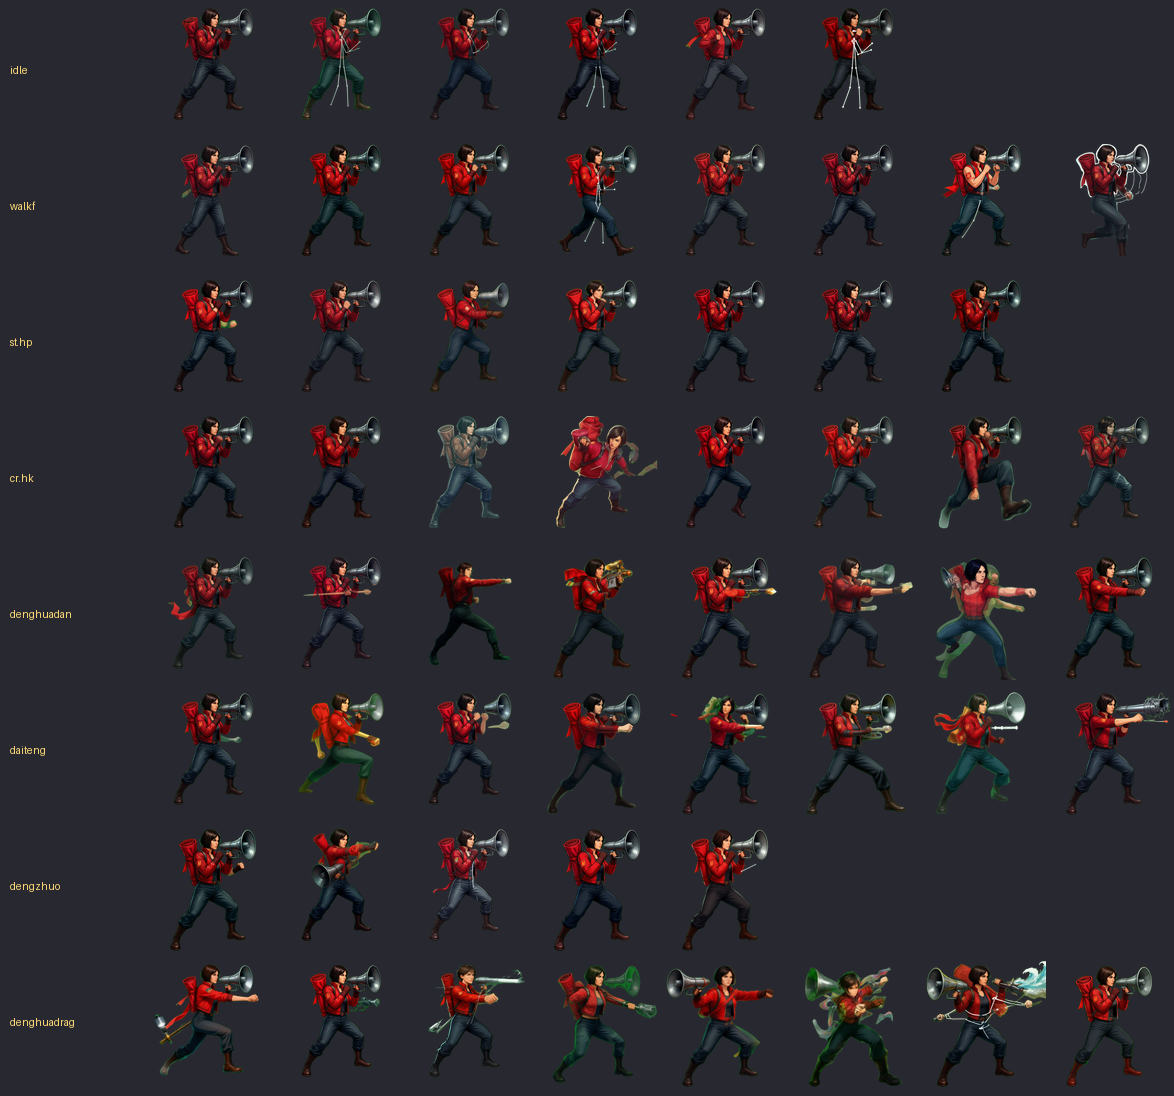
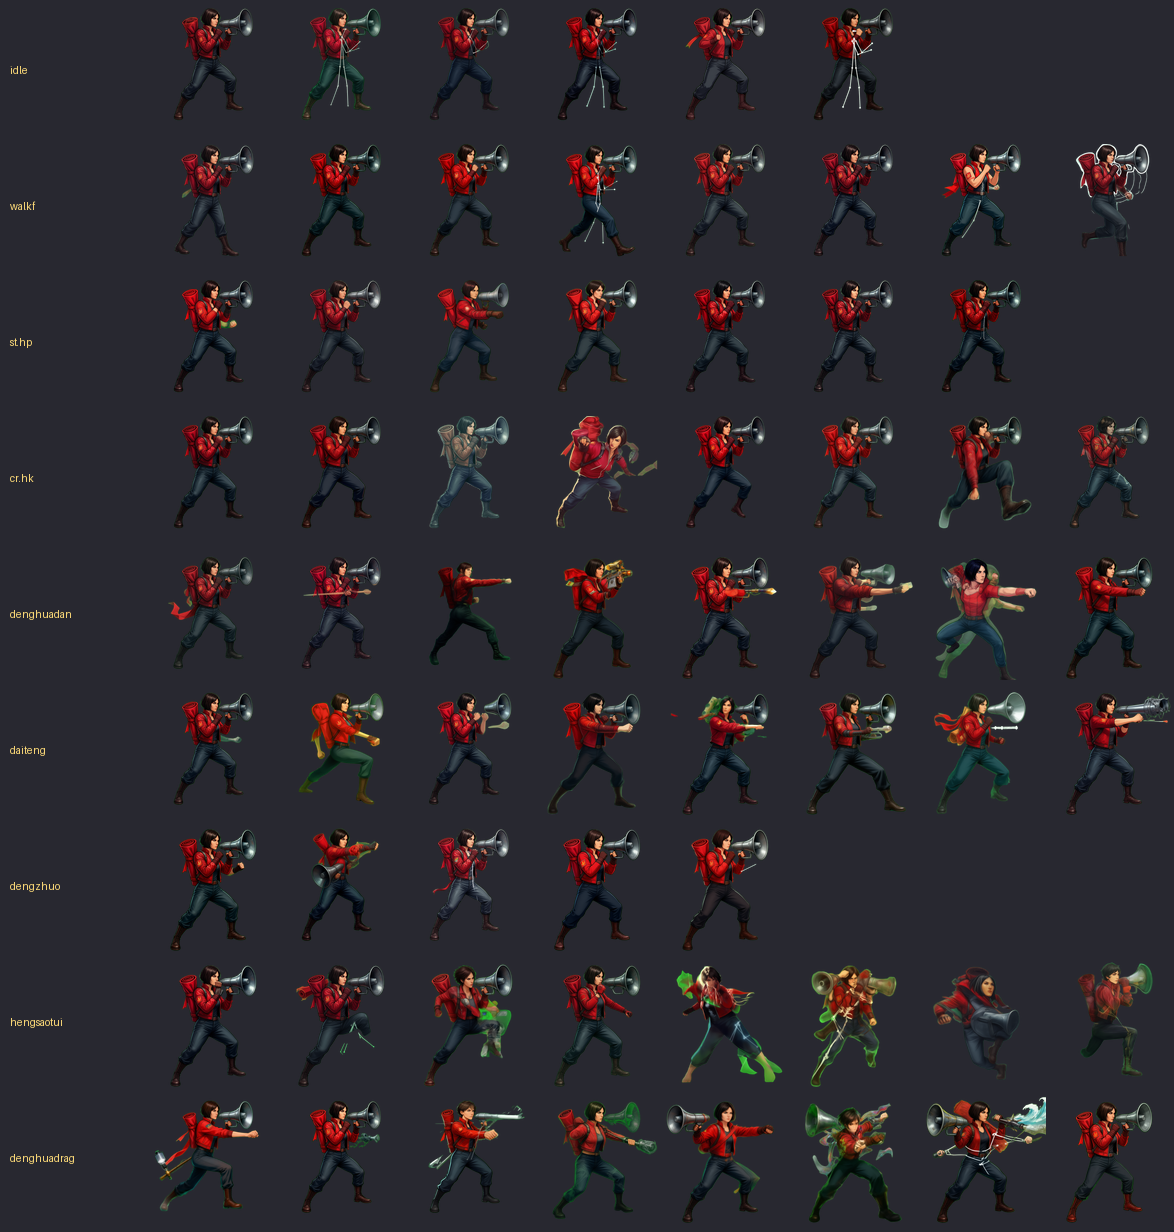
特殊技：c04–c08 各 1 个（严正 罚单夹击 6MP 中段/苏红 横幅低扫 3HK 下段击倒/方萤 灯链点 6MP 中段可取消/霍兰 拖把冲腿 6HK 上段重击/沈清 针线扫 3HK 下段）数据+帧+图集+对比图，R1 矩阵 32/57/75/57/61/39/43/36 全在 20–80

diff --git a/src/theme/meilong/characters/c06.js b/src/theme/meilong/characters/c06.js
@@ -426,6 +426,29 @@ export default {
         "life": 110
       },
       "anim": "fireball"
+    },
+    {
+      "id": "dengliandian",
+      "name": "灯链点",
+      "input": "6MP",
+      "desc": "前点中拳，矿灯链轻点，中段可取消",
+      "startup": 4,
+      "active": 3,
+      "recovery": 10,
+      "damage": 50,
+      "chip": 6,
+      "stun": 6,
+      "hitstun": 12,
+      "blockstun": 9,
+      "level": "mid",
+      "cancel": true,
+      "hitbox": {
+        "x": 10,
+        "y": 46,
+        "w": 40,
+        "h": 20
+      },
+      "anim": "punch"
     }
   ],
   "supers": [

diff --git a/src/theme/meilong/characters/c05.js b/src/theme/meilong/characters/c05.js
@@ -420,6 +420,29 @@ export default {
         "h": 16
       },
       "anim": "punch"
+    },
+    {
+      "id": "hengsaotui",
+      "name": "横幅低扫",
+      "input": "3HK",
+      "desc": "后下重脚，横幅卷低扫，下段击倒",
+      "startup": 10,
+      "active": 4,
+      "recovery": 22,
+      "damage": 85,
+      "chip": 10,
+      "stun": 10,
+      "hitstun": 16,
+      "blockstun": 12,
+      "level": "low",
+      "knockdown": true,
+      "hitbox": {
+        "x": -4,
+        "y": 0,
+        "w": 54,
+        "h": 14
+      },
+      "anim": "sweep"
     }
   ],
   "supers": [

diff --git a/src/theme/meilong/characters/c07.js b/src/theme/meilong/characters/c07.js
@@ -427,6 +427,28 @@ export default {
         "h": 30
       },
       "anim": "highkick"
+    },
+    {
+      "id": "tuobachongtui",
+      "name": "拖把冲腿",
+      "input": "6HK",
+      "desc": "前重脚，长柄拖把抡扫腿，上段重击",
+      "startup": 16,
+      "active": 8,
+      "recovery": 32,
+      "damage": 140,
+      "chip": 18,
+      "stun": 16,
+      "hitstun": 22,
+      "blockstun": 18,
+      "level": "high",
+      "hitbox": {
+        "x": 4,
+        "y": 30,
+        "w": 60,
+        "h": 60
+      },
+      "anim": "highkick"
     }
   ],
   "supers": [

diff --git a/src/theme/meilong/characters/c04.js b/src/theme/meilong/characters/c04.js
@@ -434,6 +434,28 @@ export default {
         "at": 10
       },
       "anim": "rush"
+    },
+    {
+      "id": "fadanjia",
+      "name": "罚单夹击",
+      "input": "6MP",
+      "desc": "前突中拳，罚单本夹击，中段快",
+      "startup": 5,
+      "active": 3,
+      "recovery": 12,
+      "damage": 60,
+      "chip": 8,
+      "stun": 7,
+      "hitstun": 14,
+      "blockstun": 10,
+      "level": "mid",
+      "hitbox": {
+        "x": 10,
+        "y": 44,
+        "w": 42,
+        "h": 22
+      },
+      "anim": "punch"
     }
   ],
   "supers": [

diff --git a/src/theme/meilong/characters/c08.js b/src/theme/meilong/characters/c08.js
@@ -428,6 +428,28 @@ export default {
         "at": 4
       },
       "anim": "uppercut"
+    },
+    {
+      "id": "zhenxiansao",
+      "name": "针线扫",
+      "input": "3HK",
+      "desc": "后下重脚，银针线低扫，下段",
+      "startup": 9,
+      "active": 4,
+      "recovery": 20,
+      "damage": 75,
+      "chip": 10,
+      "stun": 9,
+      "hitstun": 15,
+      "blockstun": 11,
+      "level": "low",
+      "hitbox": {
+        "x": -2,
+        "y": 0,
+        "w": 50,
+        "h": 14
+      },
+      "anim": "sweep"
     }
   ],
   "supers": [
